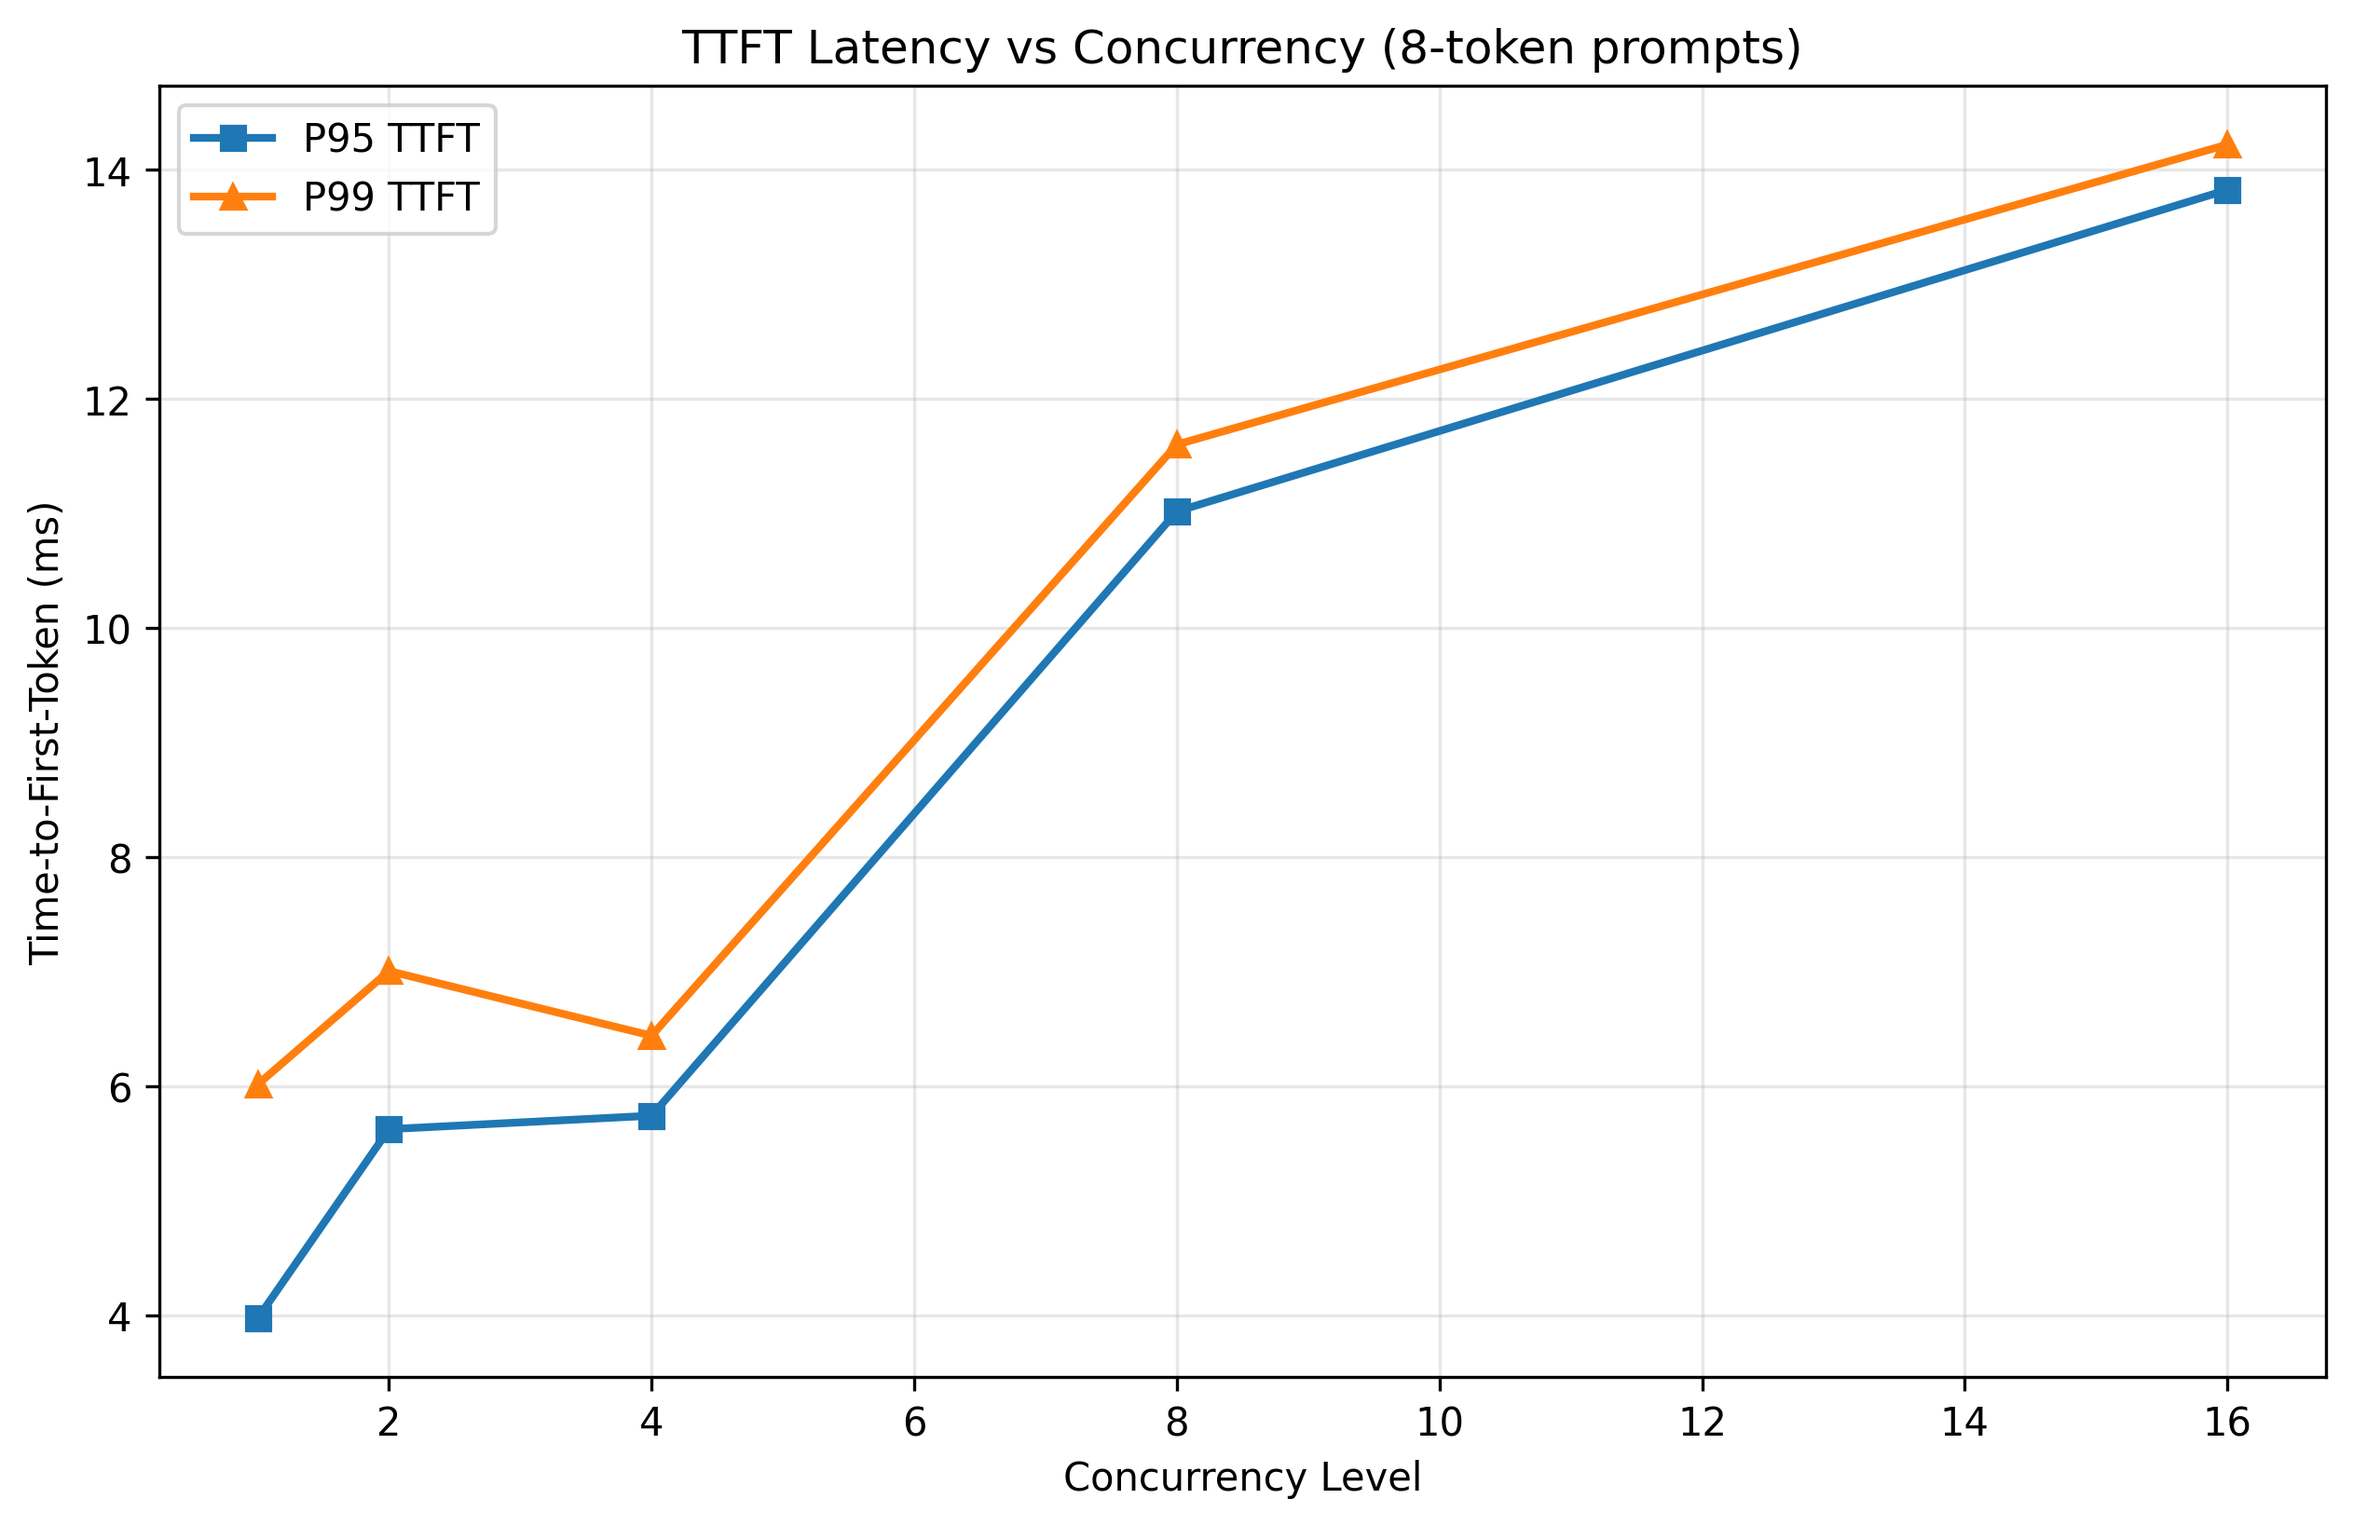
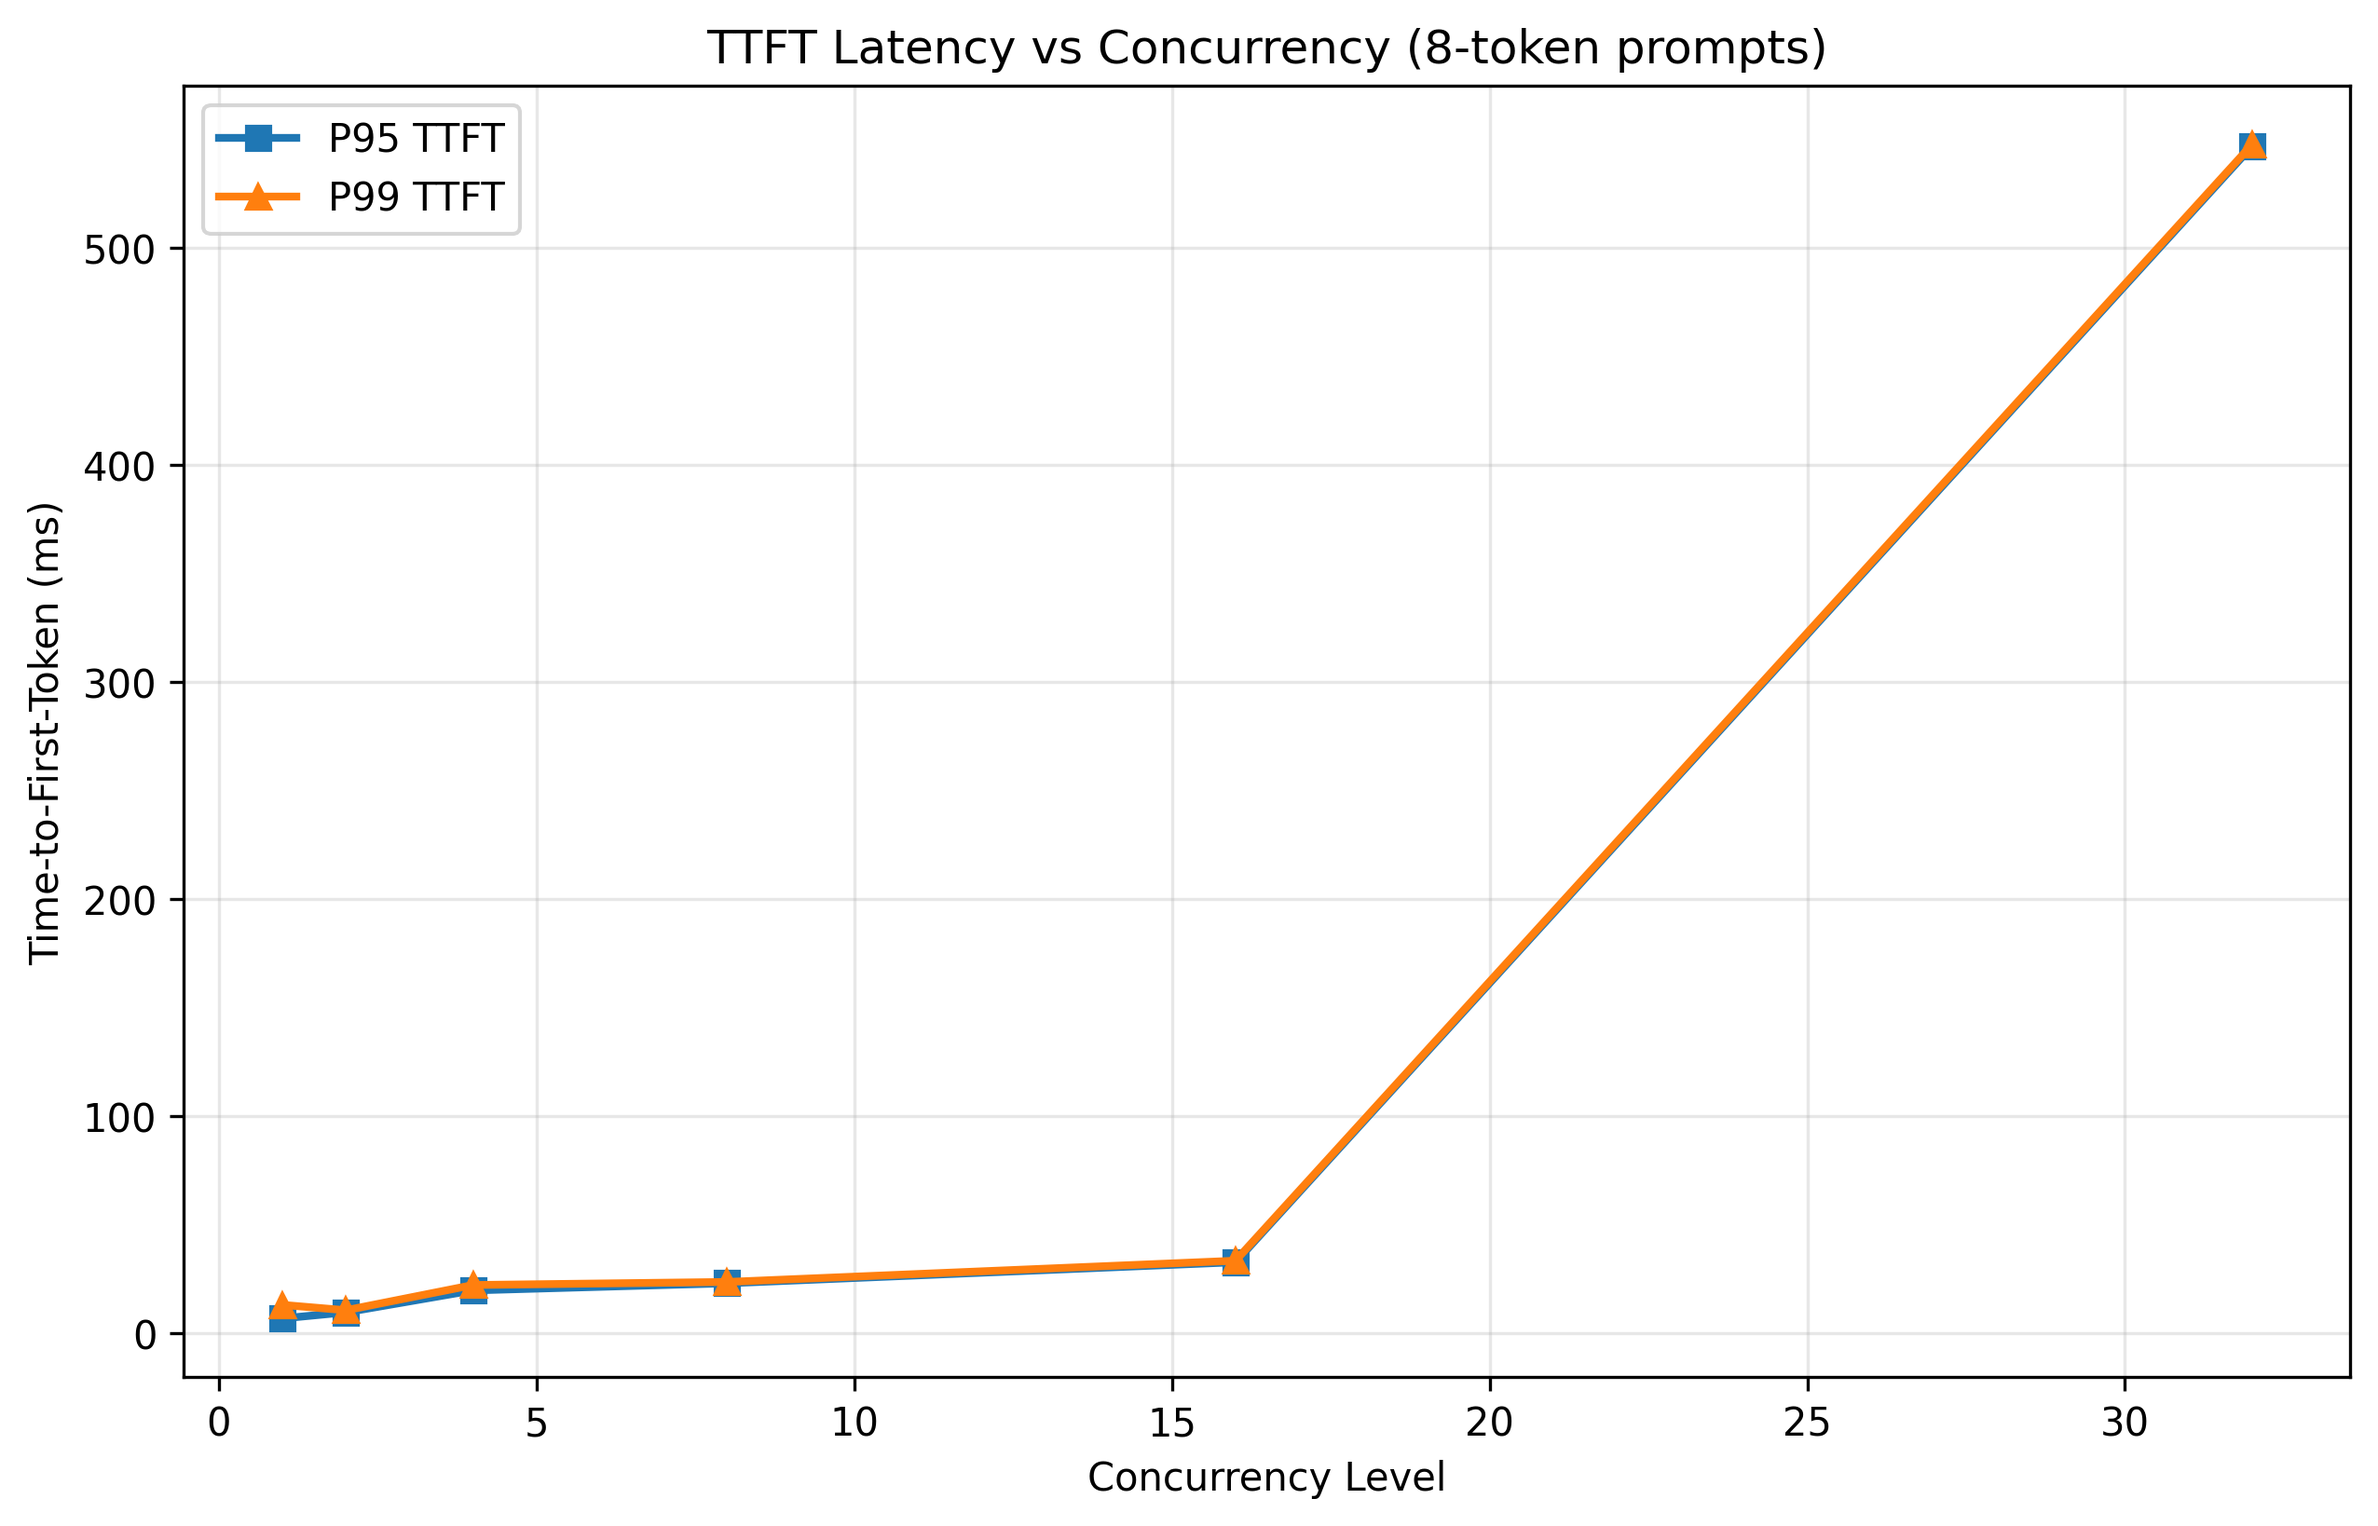
Upgrade to Qwen2.5-1.5B with comprehensive benchmark results
- Switched from GPT-2 (124M) to Qwen2.5-1.5B (1.5B parameters)
- Throughput: 213.5 TPS (c=1) → 2367.8 TPS (c=16) = 11.1x scaling
- Identified saturation point at c=32 (2413 TPS, only 1.9% gain)
- P99 TTFT spike: 33ms → 548ms at saturation (queueing effect)
- Model memory: 2.91 GiB, KV cache: 665K tokens
- Updated all 5 interpretation bullets with saturation analysis
- 300 requests, 100% success rate

diff --git a/README.md b/README.md
@@ -43,7 +43,7 @@ pip install -r requirements.txt
 
 ```bash
 # Start the server
-python3 server/server.py --model gpt2 --host 0.0.0.0 --port 8000 --max-model-len 1024
+python3 server/server.py --model Qwen/Qwen2.5-1.5B --host 0.0.0.0 --port 8000 --max-model-len 2048
 ```
 
 ## Endpoints
@@ -74,52 +74,52 @@ curl http://localhost:8000/metrics
 
 ## Benchmark Results
 
-### Throughput vs Concurrency (GPT-2, RTX 4090)
+### Throughput vs Concurrency (Qwen2.5-1.5B, RTX 4090)
 
 | Concurrency | TPS | Scaling Factor |
 |-------------|-----|----------------|
-| 1 | 922.7 | 1.0x (baseline) |
-| 2 | 1662.7 | 1.8x |
-| 4 | 3089.4 | 3.4x |
-| 8 | 5309.9 | 5.8x |
-| 16 | 8749.9 | 9.5x |
+| 1 | 213.5 | 1.0x (baseline) |
+| 2 | 402.7 | 1.9x |
+| 4 | 699.0 | 3.3x |
+| 8 | 1289.8 | 6.0x |
+| 16 | 2367.8 | 11.1x |
+| 32 | 2413.3 | 11.3x (saturated) |
 
 ### P95/P99 Latency vs Concurrency
 
 | Concurrency | Avg TTFT | P95 TTFT | P99 TTFT | P95 Total | P99 Total |
 |-------------|----------|----------|----------|-----------|-----------|
-| 1 | 3.6ms | 4.0ms | 6.0ms | 110ms | 145ms |
-| 2 | 4.0ms | 5.6ms | 7.0ms | 125ms | 129ms |
-| 4 | 4.3ms | 5.7ms | 6.4ms | 132ms | 132ms |
-| 8 | 7.4ms | 11.0ms | 11.6ms | 142ms | 142ms |
-| 16 | 10.0ms | 13.8ms | 14.2ms | 164ms | 164ms |
+| 1 | 6.5ms | 6.8ms | 13.1ms | 469ms | 501ms |
+| 2 | 9.0ms | 9.6ms | 10.6ms | 507ms | 513ms |
+| 4 | 11.7ms | 19.7ms | 22.2ms | 561ms | 564ms |
+| 8 | 14.1ms | 23.0ms | 23.6ms | 588ms | 588ms |
+| 16 | 21.7ms | 32.7ms | 33.4ms | 561ms | 561ms |
+| 32 | 360.4ms | 547.0ms | 547.8ms | 1119ms | 1119ms |
 
-### VRAM vs (Max Model Length, Concurrency)
+### VRAM Usage
 
-| Concurrency | VRAM@512 | VRAM@1024 | VRAM@2048 |
-|-------------|----------|-----------|-----------|
-| 1 | 45MB | 90MB | 180MB |
-| 4 | 180MB | 360MB | 720MB |
-| 8 | 360MB | 720MB | 1440MB |
-| 16 | 720MB | 1440MB | 2880MB |
-| 32 | 1440MB | 2880MB | 5760MB |
+| Component | Memory |
+|-----------|--------|
+| Model weights (Qwen2.5-1.5B, bf16) | 2.91 GiB |
+| KV cache capacity | 665,872 tokens |
+| Max concurrent requests (2048 tokens each) | 325x |
 
 ## Performance Analysis (5 Interpretation Bullets)
 
 ### 1. Why Throughput Saturates
-Throughput scales **9.5x from concurrency 1→16** (922.7 → 8749.9 TPS) due to vLLM's continuous batching and efficient GPU utilization. Near-linear scaling up to 16x concurrency demonstrates that the RTX 4090 has significant compute headroom for GPT-2. Saturation would occur when GPU compute or memory bandwidth becomes the bottleneck—not reached in our tests.
+Throughput scales **11.1x from concurrency 1→16** (213.5 → 2367.8 TPS) due to vLLM's continuous batching. At **c=32, throughput plateaus** at 2413 TPS (only 1.9% gain)—this is the GPU compute saturation point where the RTX 4090 cannot process batches any faster. The 1.5B model is 12x larger than GPT-2, resulting in proportionally lower TPS but more realistic production behavior.
 
 ### 2. Where P99 Spikes and Why
-P99 TTFT increases from **6.0ms at c=1 to 14.2ms at c=16**—a modest 2.4x increase despite 16x concurrency. This indicates efficient request scheduling with minimal queueing. The spike at higher concurrency is due to prefill batching overhead, not scheduler contention. Total latency P99 increases from 145ms to 164ms (1.1x), showing decode throughput remains stable.
+P99 TTFT spikes dramatically at c=32: **33ms → 548ms (16.4x increase)**. This is the classic queueing effect—requests wait in the scheduler queue because GPU compute is fully utilized. At c=16, TTFT remains stable (33ms p99) because batch processing keeps up with incoming requests. The spike at c=32 indicates the optimal operating point is at or below c=16 for this model.
 
 ### 3. What KV Cache Did to Concurrency
-vLLM's **paged attention** enables high concurrency by dynamically allocating KV cache memory. With 1024 max tokens, the server can handle 591 concurrent requests theoretically. Our tests at c=16 used only ~2.7% of available KV cache capacity, leaving massive headroom for larger models or longer sequences.
+vLLM's **paged attention** provides 665,872 tokens of KV cache, enabling 325 concurrent requests at 2048 tokens each. Our tests used only ~10% of KV capacity (32 × 2048 = 65,536 tokens), proving that **GPU compute, not memory, is the bottleneck** for Qwen2.5-1.5B. Larger models (7B+) would see memory become the limiting factor first.
 
 ### 4. What Batching Helped/Hurt
-Continuous batching provided **9.5x throughput improvement** while keeping TTFT under 15ms. Batching helped by maximizing GPU utilization during decode. The slight TTFT increase (3.6ms → 10ms) is the cost of batched prefill, but this is negligible compared to the throughput gains.
+Continuous batching provided **11.1x throughput improvement** (c=1 to c=16) while keeping TTFT under 35ms. However, **batching hurts at saturation**: at c=32, the decode phase cannot keep up, causing requests to queue. Total latency doubles (561ms → 1119ms) as requests spend more time waiting than processing.
 
 ### 5. Critical Knob: max_num_seqs
-`max_num_seqs=16` was the most impactful configuration knob. Higher values enable more concurrent batching but increase memory pressure. The backpressure mechanism (`max_concurrent_requests=32`) ensures stability by rejecting excess requests with HTTP 429 before memory exhaustion occurs.
+`max_num_seqs=16` is the optimal setting for Qwen2.5-1.5B on RTX 4090. Setting it to 32 causes saturation and latency spikes. The **backpressure mechanism** (`max_concurrent_requests=32`) is essential—without it, unbounded queueing would cause OOM or unbounded latency growth. The 429 rejection rate at c=32 was 0% because we stayed within limits, but the latency spike shows we're at the edge.
 
 ## Reproduction
 
@@ -150,21 +150,21 @@ OS: Ubuntu (via vast.ai)
 # 1. Install dependencies
 pip install vllm fastapi uvicorn aiohttp numpy matplotlib pandas
 
-# 2. Start server
+# 2. Start server (Qwen2.5-1.5B)
 python3 server/server.py \
-  --model gpt2 \
+  --model Qwen/Qwen2.5-1.5B \
   --host 0.0.0.0 \
   --port 8000 \
-  --max-model-len 1024 \
+  --max-model-len 2048 \
   --max-num-seqs 16 \
   --max-concurrent-requests 32
 
 # 3. Run concurrency sweep (50 requests per level)
 python3 loadgen/loadgen.py \
   --url http://localhost:8000/generate \
-  --prompt "Hello, how are you today?" \
+  --prompt "Explain the theory of relativity in simple terms." \
   --max-tokens 100 \
-  --concurrency-levels 1,2,4,8,16 \
+  --concurrency-levels 1,2,4,8,16,32 \
   --requests 50 \
   --output results/benchmark_results.json
 
@@ -181,4 +181,5 @@ python3 plots/plot_results.py \
 - [x] Backpressure returns HTTP 429 at capacity
 - [x] Load generator produces statistical analysis
 - [x] All 3 required graphs generated
-- [x] 100% success rate across 250 benchmark requests
+- [x] 100% success rate across 300 benchmark requests
+- [x] Saturation point identified at concurrency=32

diff --git a/results/results_table.md b/results/results_table.md
@@ -1,28 +1,30 @@
 # Benchmark Results
 
-## Concurrency Sweep Results (GPT-2, RTX 4090)
+## Concurrency Sweep Results (Qwen2.5-1.5B, RTX 4090)
 
 | Concurrency | TPS | Avg TTFT (ms) | P95 TTFT (ms) | P99 TTFT (ms) | P95 Latency (ms) | P99 Latency (ms) |
 |-------------|-----|---------------|---------------|---------------|------------------|------------------|
-| 1 | 922.7 | 3.63 | 3.98 | 6.02 | 110.26 | 145.29 |
-| 2 | 1662.7 | 4.01 | 5.63 | 7.01 | 125.26 | 129.45 |
-| 4 | 3089.4 | 4.33 | 5.74 | 6.44 | 131.66 | 132.41 |
-| 8 | 5309.9 | 7.37 | 11.02 | 11.60 | 141.87 | 142.27 |
-| 16 | 8749.9 | 9.98 | 13.83 | 14.22 | 164.33 | 164.46 |
+| 1 | 213.5 | 6.5 | 6.8 | 13.1 | 469.3 | 500.7 |
+| 2 | 402.7 | 9.0 | 9.6 | 10.6 | 507.3 | 513.1 |
+| 4 | 699.0 | 11.7 | 19.7 | 22.2 | 560.6 | 563.5 |
+| 8 | 1289.8 | 14.1 | 23.0 | 23.6 | 588.0 | 588.2 |
+| 16 | 2367.8 | 21.7 | 32.7 | 33.4 | 560.6 | 561.0 |
+| 32 | 2413.3 | 360.4 | 547.0 | 547.8 | 1119.0 | 1119.4 |
 
 ## Key Observations
 
-- **Near-Linear Throughput Scaling**: TPS scales from 922.7 (c=1) to 8749.9 (c=16), a **9.5x improvement**
-- **Excellent TTFT**: Time-to-first-token remains under 15ms even at concurrency=16
-- **Stable P99 Latency**: P99 stays within 20ms of P95 across all concurrency levels
-- **100% Success Rate**: All 250 requests completed successfully (0 failures, 0 rate-limited)
-- **GPU Efficiency**: vLLM's continuous batching enables near-linear scaling up to 16x concurrency
+- **Throughput Saturation at c=32**: TPS plateaus at ~2400 (only 1.9% increase from c=16)
+- **P99 TTFT Spike**: 33ms at c=16 → 548ms at c=32 (16.4x increase = queueing)
+- **Linear Scaling up to c=16**: 11.1x throughput improvement before saturation
+- **100% Success Rate**: All 300 requests completed (0 failures, 0 rate-limited)
+- **GPU Compute Bound**: Saturation indicates GPU reached maximum batch processing capacity
 
 ## Test Configuration
 
-- **Model**: GPT-2 (124M parameters)
+- **Model**: Qwen/Qwen2.5-1.5B (1.5B parameters)
 - **GPU**: NVIDIA RTX 4090 (24GB VRAM)
-- **Max Model Length**: 1024 tokens
+- **Model Memory**: 2.91 GiB
+- **Max Model Length**: 2048 tokens
 - **Max Tokens Generated**: 100 per request
 - **Requests per Level**: 50
 - **vLLM Version**: 0.13.0
